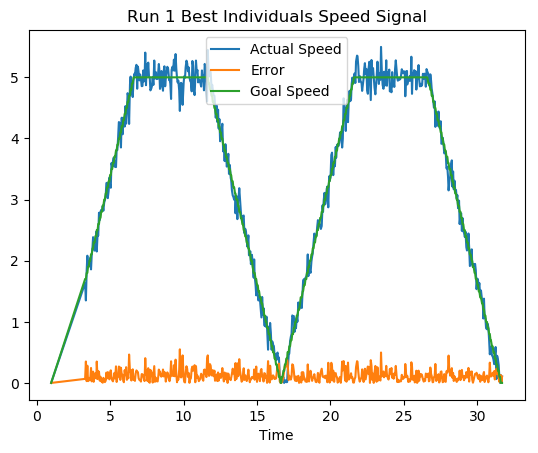
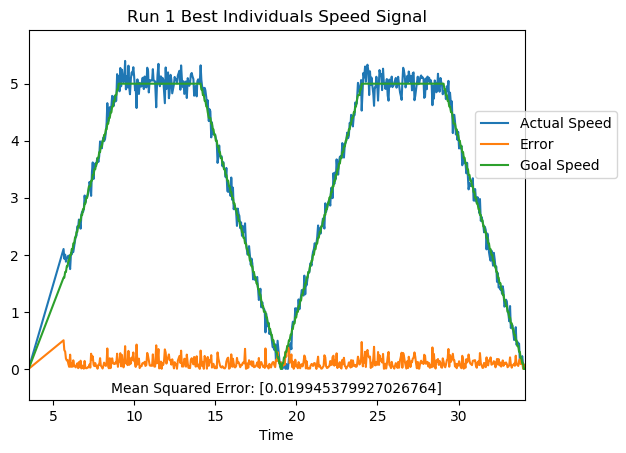
Made plot generation script for PID tuning

diff --git a/msu_autorally/evo_ros2/src/EAs/logs/PID-Tuning/generate_plots.py b/msu_autorally/evo_ros2/src/EAs/logs/PID-Tuning/generate_plots.py
@@ -1,0 +1,158 @@
+#
+# Used to generate PID-tuning experient plots
+# GAS 10-16-18
+
+# For command line argument parsing
+import argparse
+
+# For data / fitness evaluation
+import pandas as pd
+from sklearn.metrics import mean_squared_error
+
+# For showing DEAP plots
+import matplotlib.pyplot as plt
+import networkx
+
+# For creating directories and saving logs
+import os
+from os import listdir
+from os.path import isfile, join
+import json
+import collections
+import datetime
+
+# For saving plots
+import pickle
+
+# for debugging import
+from pprint import pprint
+
+
+class plot_generator():
+	
+	def __init__(self, cmd_args):
+		self.debug = cmd_args.debug
+		
+		
+		run_multiple = True
+		self.number_runs = 2
+		
+		
+		if run_multiple:
+			for i in range(1,self.number_runs+1):
+				
+				print('Processesing run {}'.format(i))
+				self.run_number = i
+			
+				self.run_directory = 'run{}/'.format(self.run_number)
+				filename = '{}log.json'.format(self.run_directory)
+			
+				self.import_file(filename)
+				self.create_run_plots()
+		else:
+			self.run_number = 1
+			
+			self.run_directory = 'run{}/'.format(self.run_number)
+			filename = '{}log.json'.format(self.run_directory)
+		
+			self.import_file(filename)
+			self.create_run_plots()
+		
+		
+		
+		
+	# Import log from file and unpack it into member variables ###
+	def import_file(self, filename):
+		with open(filename) as f:
+			self.run_log = json.load(f)
+			
+		self.experiment_name = self.run_log['experiment_name']
+		self.run_number = self.run_log['run_number']
+		self.run_date = self.run_log['run_date']
+		self.running_time = self.run_log['running_time']
+		self.best_ind = self.run_log['best_ind']
+		self.best_fitness = self.run_log['best_ind_fitness']
+		self.summary_log = self.run_log['summary_log']
+		self.hof = self.run_log['hall_of_fame']
+		self.hof_fitnesses= self.run_log['hall_of_fame_fitnesses']
+		self.detailed_log = self.run_log['detailed_log']
+		
+		self.summary_log_dict = dict()
+		self.summary_log_dict['gen'] = list()
+		self.summary_log_dict['avg'] = list()
+		self.summary_log_dict['min'] = list()
+		for gen in self.summary_log:
+			gen = dict(gen)
+			self.summary_log_dict['gen'].append(gen['gen'])
+			self.summary_log_dict['avg'].append(gen['avg'])
+			self.summary_log_dict['min'].append(gen['min'])
+			
+
+	### Create run plots ###
+	def create_run_plots(self):
+		
+		# Fitnesses of Population over Generations
+		gen = self.summary_log_dict['gen']
+		avg_fit = self.summary_log_dict['avg']
+		best_fit = self.summary_log_dict['min']
+
+		print('Preparing plot 1...')
+		fig, ax1 = plt.subplots()
+		line1 = ax1.plot(gen, best_fit, "b-", label="Minimum (Best) Fitness")
+		ax1.set_xlabel("Generation")
+		ax1.set_ylabel("Fitness")
+		line2 = ax1.plot(gen, avg_fit, "r-", label="Average Fitness")
+		lns = line1 + line2
+		labs = [l.get_label() for l in lns]
+		ax1.legend(lns, labs, loc="best")
+		ax1.set_title('Run {} Fitnesses over Generations'.format(self.run_number))
+
+		print('Saving plot 1')
+		fig.savefig('{}/fitness_best_avg_graph.png'.format(self.run_directory), bbox_inches='tight')
+		
+		# Speed Signal of Best Ind
+		print('Preparing plot 2...')
+		details_of_best_ind = self.detailed_log[str(self.hof[0])]
+		self.df = pd.read_json(details_of_best_ind['dataFrame'], orient='columns')
+		self.df = self.df.sort_index()
+		ax2 = self.df.plot(x='Time')
+		#ax2.legend(['Actual Speed', 'Error', 'Goal Speed'], loc="upper right")
+		ax2.legend(['Actual Speed', 'Error', 'Goal Speed'], bbox_to_anchor=(1.2, 0.8))
+		ax2.set_title('Run {} Best Individuals Speed Signal'.format(self.run_number))
+		plt.text(0.5, 0.03, 'Mean Squared Error: {}'.format(self.best_fitness), horizontalalignment='center', verticalalignment='center', transform=ax2.transAxes)
+		fig2 = ax2.get_figure()
+		plt.margins(x = 0.0, y = 0.1)
+		print('Saving plot 2')
+		fig2.savefig('{}/best_ind_speed_plot.png'.format(self.run_directory), bbox_inches='tight')
+		
+		# Just best fitness over generations
+		print('Preparing plot 3...')
+		fig3, ax3 = plt.subplots()
+		line1 = ax3.plot(gen, best_fit, "b-", label="Minimum (Best) Fitness")
+		ax3.set_xlabel("Generation")
+		ax3.set_ylabel("Fitness")
+		lns = line1
+		labs = [l.get_label() for l in lns]
+		ax3.legend(lns, labs, loc="best")
+		ax3.set_title('Run {} Fitnesses over Generations'.format(self.run_number))
+
+		print('Saving plot 3')
+		fig3.savefig('{}/fitness_best_graph.png'.format(self.run_directory), bbox_inches='tight')
+	
+	
+	def print_genealogy_tree(self):
+		graph = networkx.DiGraph(self.history.genealogy_tree)
+		graph = graph.reverse()     # Make the grah top-down
+		print(graph)
+		colors = [self.toolbox.evaluate(self.history.genealogy_history[i])[0] for i in graph]
+		networkx.draw(graph, node_color=colors)
+		plt.show()
+	
+	
+if __name__ == '__main__':
+	# Parse arguments
+	parser = argparse.ArgumentParser(description='Plot generator for PID Study')
+	parser.add_argument('-d', '--debug', action='store_true', help='Print extra output to terminal.')
+	args, unknown = parser.parse_known_args() # Only parse arguments defined above
+
+	node = plot_generator(cmd_args = args)
